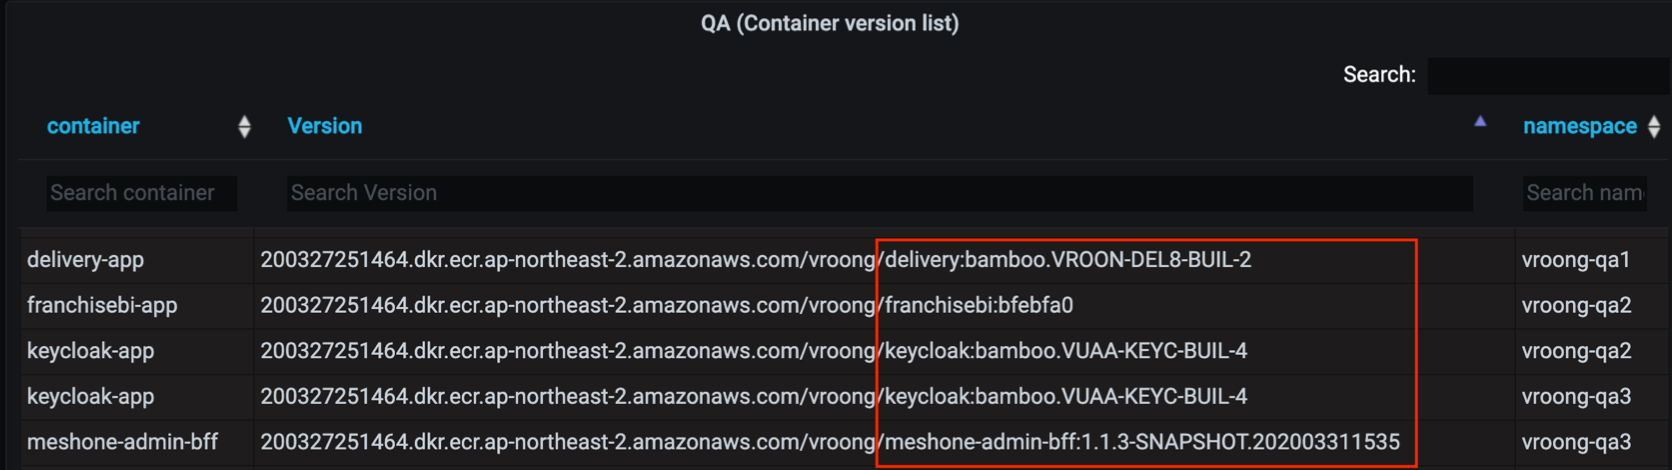
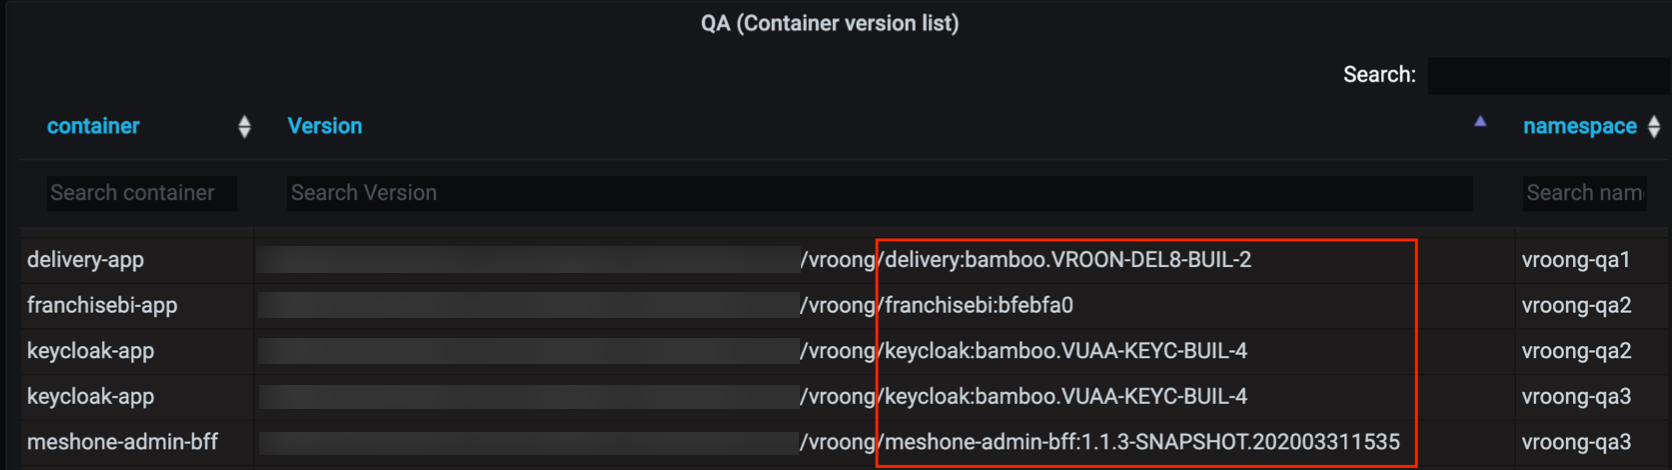
썸네일 및 version 사진 수정, 태그 추가

diff --git a/src/content/20210208-dev-notes-002-ci-cd/index.md b/src/content/20210208-dev-notes-002-ci-cd/index.md
@@ -2,7 +2,7 @@
 layout: post
 title: "CI/CD 도구 및 방법론 도입기"
 date: "2021-02-08"
-tags: ["Dev Notes"]
+tags: ["Dev Notes", "CICD", "ArgoCD", "Jenkins", "Kubernetes", "Helm"]
 author: 최제필
 authorDesc: "플랫폼실 최제필"
 titleImage: "./title.png"
